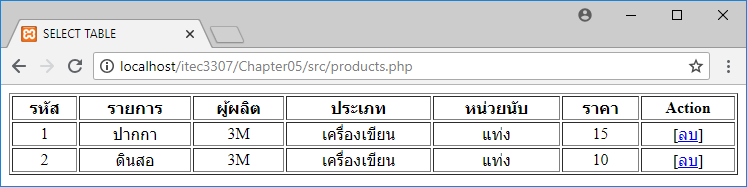
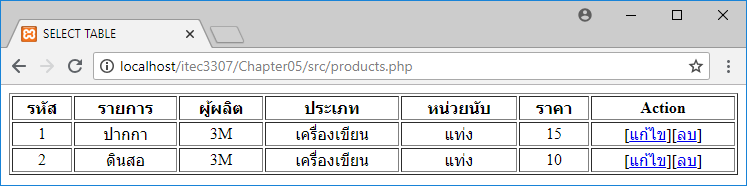
update 15-06-2018 10:55 PM

diff --git a/Chapter05/src/products.php b/Chapter05/src/products.php
@@ -28,7 +28,7 @@
 			echo "<TD>".$row['CategoryName']."</TD>";
 			echo "<TD>".$row['Unit']."</TD>";
             echo "<TD>".$row['Price']."</TD>";
-            echo "<TD>[<A href=ch05_01.php?id=".$row['ProductID'].">ลบ</A>]</TD>";
+            echo "<TD>[<A href=frm_product_edit.php?id=".$row['ProductID'].">แก้ไข</A>][<A href=ch05_01.php?id=".$row['ProductID'].">ลบ</A>]</TD>";
         echo "</TR>";
     }
     echo "</TABLE>";

diff --git a/Chapter05/LAB0502.md b/Chapter05/LAB0502.md
@@ -1,10 +1,8 @@
 ## เนื้อหาภาคปฏิบัติที่ LAB0502
 ### ฝึกปฏิบัติเขียนโปรแกรมการเพิ่มและแก้ไขข้อมูลผ่านฟอร์ม
 #### 1. การเพิ่มข้อมูลผ่านฟอร์ม
-```
-    การส่งส่งค่าผ่าน $_GET[] --> products.php ส่งค่าไปให้กับ ch05_01.php
-```
-จาก โปรแกรม [frm_product_new.php](src/frm_product_new.php) แสดงผลลัพธ์
+
+จากโปรแกรม [frm_product_new.php](src/frm_product_new.php) แสดงผลลัพธ์
 
 <img src=output/frm_product_new.png>
 
@@ -12,7 +10,7 @@
 
 <img src=output/frm_product_new2.png>
 
-ทำการกดปุ่ม "เพิ่มสินค้า" โปรแกรมจะส่งค่าบนฟอร์มเรียกไปยังหน้า [ch05_04.php](src/ch05_04.php) เพื่ประมวลผลคำสั่ง ดังนี้
+ทำการกดปุ่ม "เพิ่มสินค้า" โปรแกรมจะส่งค่าบนฟอร์มเรียกไปยังหน้า [ch05_04.php](src/ch05_04.php) เพื่อประมวลผลคำสั่ง ดังนี้
 
 ```
 <?php // ตัวอย่างโปรแกรมที่ 5.4 เพิ่มรายการสินค้าด้วยตัวแปรส่งค่า $_POST[] จากฟอร์ม
@@ -35,16 +33,48 @@
 จากโปรแกรมเป็นตั้งค่ารับข้อมูลจากฟอร์ม เพื่อนำไปกำหนดคำสั่งสำหรับเพิ่มข้อมูล 
 จากนั้นจึง redirect ไปยังหน้า [products.php](src/products.php) เพื่อแสดงผลลัพธ์ ได้ผล ดังนี้
 
-<img src=output/frm_product_new3.png>
+<img src=output/ch05_04.png>
 
 #### 2. การแก้ไขข้อมูลผ่านฟอร์ม
 
-การส่งส่งค่าผ่าน $_POST[] --> frm_login.html ส่งค่าไปให้กับ ch05_02.php
+จากโปรแกรม [products.php](src/products.php) คำสั่ง 
 
-จากฟอร์ม frm_login.html
+```
+    echo "<A href=frm_product_edit.php?id=".$row['ProductID'].">แก้ไข</A>";
+```
 
-<img src=output/frm_login.png>
+เป็นการสร้างลิงค์ข้อความ "แก้ไข" ไปยังหน้า [frm_product_edit.php](src/frm_product_edit.php) 
+โดยมีการส่งค่า id = $row['ProductID'] (รหัสสินค้า) ไปด้วย
 
-ส่งค่าไปยัง ch05_02.php ได้ผลลัพธ์
+จากโปรแกรม [frm_product_edit.php](src/frm_product_edit.php) ถูกประมวลผลและแสดงผลลัพธ์ ดังนี้
 
-<img src=output/ch05_02.png>
+<img src=output/frm_product_edit.png>
+
+ให้ทำการแก้ไขข้อมูล ตัวอย่าง เช่น แก้ราคาจาก 10 เป็น 20 ตามภาพ
+
+<img src=output/frm_product_edit2.png>
+
+ทำการกดปุ่ม "บันทึก" โปรแกรมจะส่งค่าบนฟอร์มเรียกไปยังหน้า [ch05_05.php](src/ch05_05.php) เพื่อประมวลผลคำสั่ง ดังนี้
+
+```
+<?php // ตัวอย่างโปรแกรมที่ 5.5 ปรับปรุงรายการสินค้าด้วยตัวแปรส่งค่า $_POST[] จากฟอร์ม
+   include "connection.php";
+   $txtProductID=$_POST['txtProductID']; 
+   $txtProductName=$_POST['txtProductName']; 
+   $txtSupplierID=$_POST['txtSupplierID']; 
+   $txtCategoryID=$_POST['txtCategoryID']; 
+   $txtUnit=$_POST['txtUnit']; 
+   $txtPrice =$_POST['txtPrice']; 
+   $sql="UPDATE  Products 
+       SET ProductName = '$txtProductName', SupplierID = '$txtSupplierID',
+             CategoryID = '$txtCategoryID', Unit = '$txtUnit', Price = '$txtPrice' 
+       WHERE ProductID = '$txtProductID';";
+   $result=mysqli_query($conn, $sql); 
+   mysqli_close($conn);
+   echo "<META http-equiv='refresh' content='0; url=products.php'>";
+?>
+```
+
+ได้ผลลัฑธ์ ดังนี้
+
+<img src=output/ch05_05.png>

diff --git a/Chapter05/LAB0501.md b/Chapter05/LAB0501.md
@@ -6,10 +6,10 @@
 จาก โปรแกรม [products.php](src/products.php) คำสั่ง 
 
 ```
-    echo "<TD>[<A href=ch05_01.php?id=".$row['ProductID'].">ลบ</A>]</TD>";
+    echo "<A href=ch05_01.php?id=".$row['ProductID'].">ลบ</A>";
 ```
 
-เป็นการสร้างลิงค์ข้อความ [ลบ] ไปยังหน้า [ch05_01.php](src/ch05_01.php) 
+เป็นการสร้างลิงค์ข้อความ "ลบ" ไปยังหน้า [ch05_01.php](src/ch05_01.php) 
 โดยมีการส่งค่า id = $row['ProductID'] (รหัสสินค้า) ไปด้วย
 
 จากผลลัพธ์ของหน้า [products.php](src/products.php) ดังนี้
